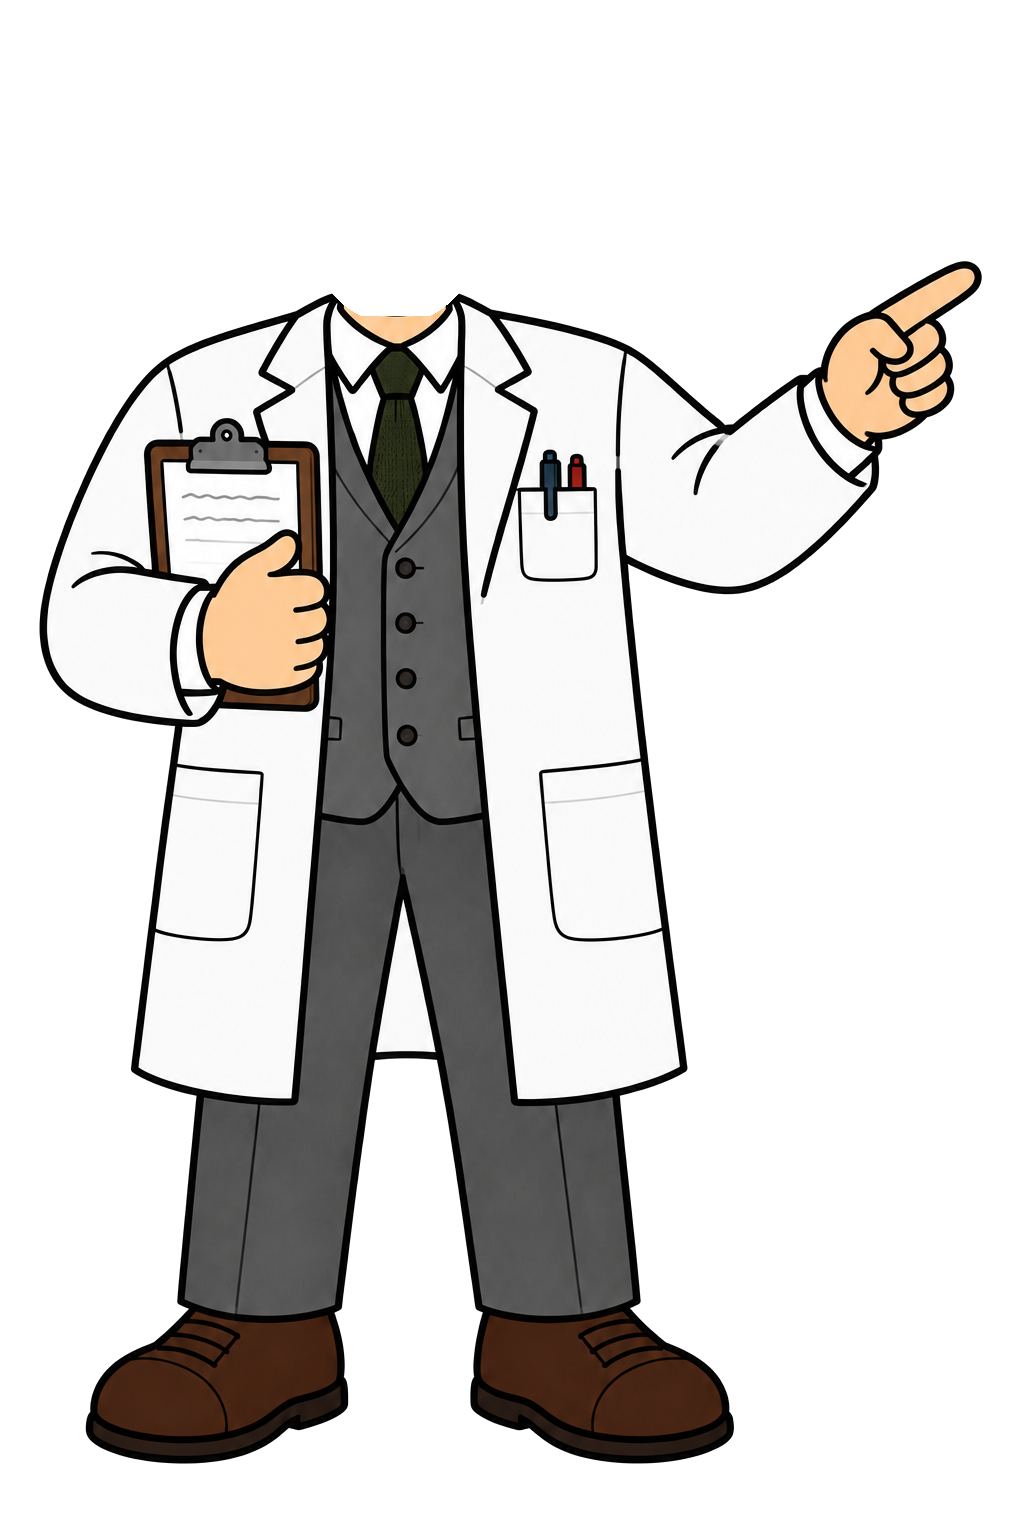
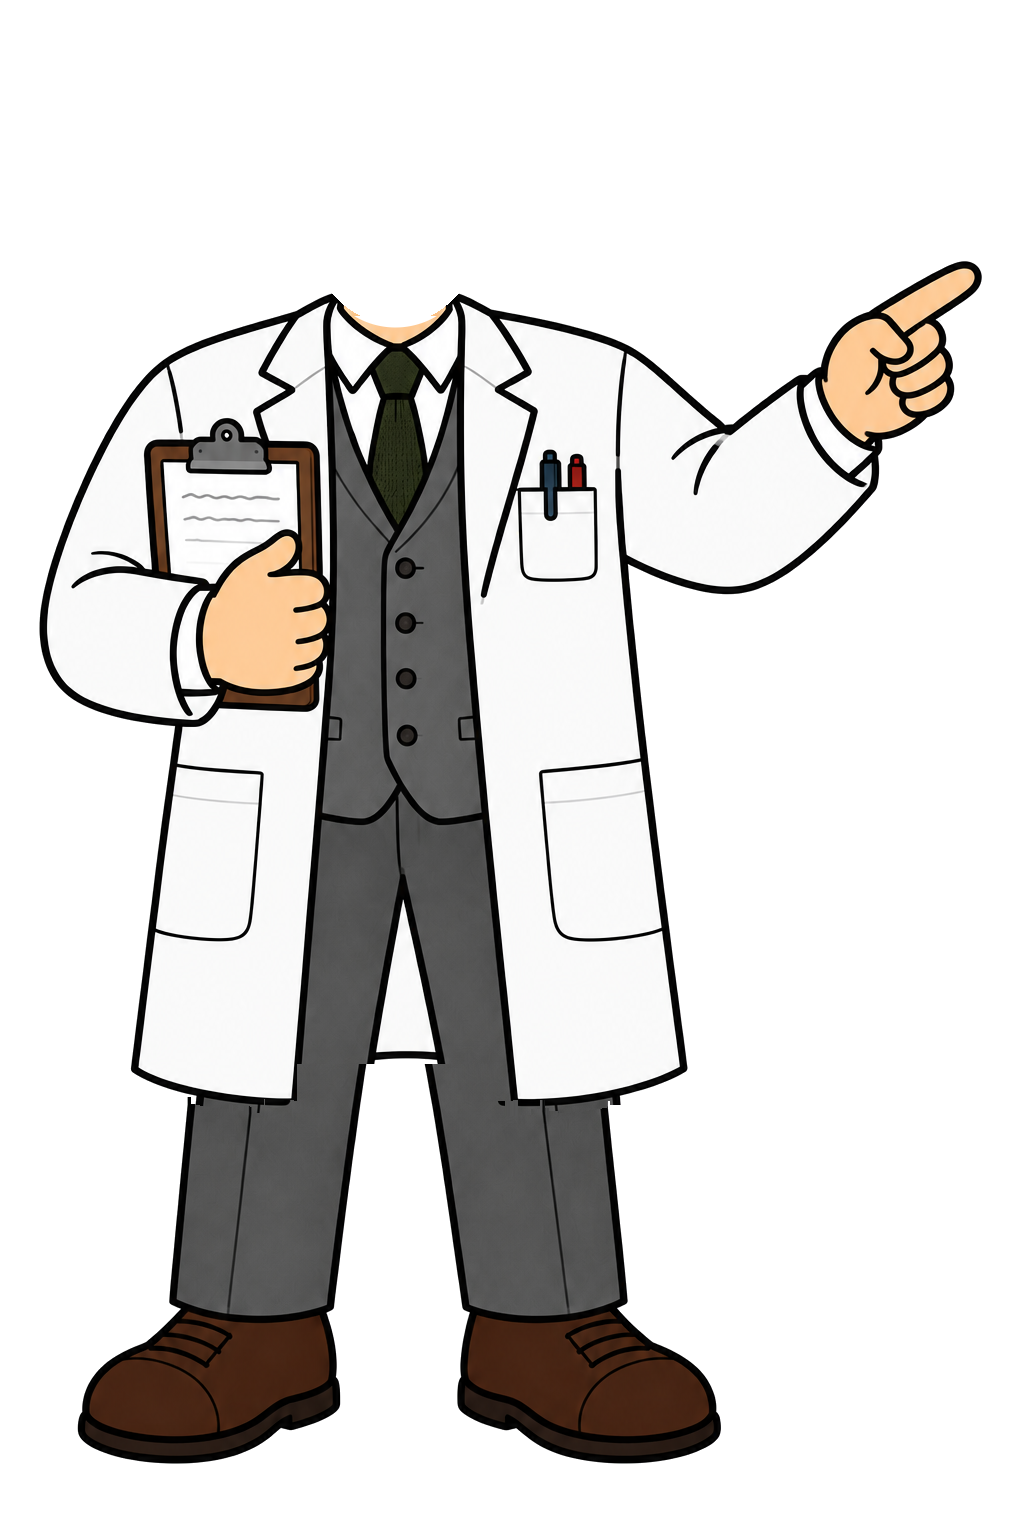
film: scene 9 v10 x12 (1.2x on all: capture-x12.sh/build-x12.sh, 1089 frames = 36.30 s; professor-point drawn as authored with the re-seated legs from film/floating-head 20ae821, local leg shift removed; assets/s09 refreshed to the notched sprites and pinned anchors the v9 render used)

Changed region(s): [[0.4062, 0.6875, 0.7188, 0.9688], [0.0625, 0.6875, 0.375, 0.9688], [0.3438, 0.1875, 0.4062, 0.2188]]

diff --git a/apps/web/film/assets/s09/anchors.js b/apps/web/film/assets/s09/anchors.js
@@ -1,2 +1,2 @@
-window.ANCHORS_S09 = {"street-hands-in-pockets": {"cx": 510.5, "chin": 344, "top": 136, "hx": 510.5}, "street-celebrate": {"cx": 511.0, "chin": 344, "top": 127, "hx": 511.0}, "suit-standing": {"cx": 511.0, "chin": 309, "top": 91, "hx": 511.0}, "suit-point-right": {"cx": 352.0, "chin": 311, "top": 91, "hx": 352.0}, "physicist-holding-clipboard": {"cx": 511.5, "chin": 308, "top": 92, "hx": 511.5}, "physicist-professor-point": {"cx": 394.5, "chin": 308, "top": 91, "hx": 394.5}, "street-thinking": {"cx": 510.5, "chin": 344, "top": 136, "hx": 510.5}, "street-thinking-2": {"cx": 510.5, "chin": 344, "top": 136, "hx": 510.5}, "street-thinking-3": {"cx": 510.5, "chin": 344, "top": 136, "hx": 510.5}};
+window.ANCHORS_S09 = {"street-hands-in-pockets": {"cx": 510.5, "chin": 344, "top": 136, "hx": 510.5}, "street-celebrate": {"cx": 511.0, "chin": 344, "top": 127, "hx": 511.0}, "suit-standing": {"cx": 511.0, "chin": 309, "top": 91, "hx": 511.0}, "suit-point-right": {"cx": 351.0, "chin": 308, "top": 91, "hx": 351.0, "oval_cx": 352.0, "oval_chin": 311}, "physicist-holding-clipboard": {"cx": 509.5, "chin": 308, "top": 92, "hx": 509.5, "oval_cx": 511.5, "oval_chin": 308}, "physicist-professor-point": {"cx": 394.5, "chin": 308, "top": 91, "hx": 394.5}, "street-thinking": {"cx": 510.5, "chin": 344, "top": 136, "hx": 510.5}, "street-thinking-2": {"cx": 510.5, "chin": 344, "top": 136, "hx": 510.5}, "street-thinking-3": {"cx": 510.5, "chin": 344, "top": 136, "hx": 510.5}};
 window.KEY_CHIN_X = 289;

diff --git a/apps/web/film/pipeline/s09/bodies.py b/apps/web/film/pipeline/s09/bodies.py
@@ -9,7 +9,7 @@ is moved by the measured collar offset, so a place() call with the same chin poi
   suit: suit-point-right is pinned to suit-standing (section 2: arms at sides on the snap, points on "yeah").
   lab coat: physicist-holding-clipboard is pinned to physicist-professor-point (section 3 switches on "live"; professor-point keeps its v1-v8 anchor,
   so the section-3 call and the hand-off frame are unchanged).
-  professor-point's legs: the sprite is split at the coat hem and its legs are moved so they land on holding-clipboard's legs (collar-pinned).
+  professor-point's legs: v10 uses the re-seated -notch art from film/floating-head 20ae821 as authored (v9's local hem split is removed).
 usage: /usr/bin/python3 pipeline/s09/bodies.py"""
 import json, os
 import numpy as np
@@ -80,43 +80,7 @@ h = oval(L0); h.update({'oval_cx': h['cx'], 'oval_chin': h['chin'], 'cx': oval(L
 legL, legR = match(L0, L1, (270, 480, 1250, 1470), base), match(L0, L1, (520, 830, 1250, 1470), base)
 print('lab collar offset (professor-point - holding-clipboard, beyond the oval offset):', cdx, cdy, '-> holding-clipboard anchor', h['cx'], h['chin'],
       '| legs left', legL, 'right', legR, '| clipboard', match(L0, L1, (250, 440, 420, 720), base))
-# professor-point's legs: the art draws them (and the coat) 10-17 px right of its collar compared with holding-clipboard. Split at the coat hem: the
-# coat (white panels plus their outline) stays put; everything else from row Y0 down (trousers, the lining between the legs, shoes) is moved left by
-# the leg offset minus the collar offset, the left leg and the right leg each by its own amount, with the seam down the middle of the gap between the
-# legs (lining white, then empty background: nothing to cut). Under the coat the trousers are continued straight up from below the hem, so the moved
-# legs never pull coat white into the opening. In the coat opening the move ramps in from 0 at Y0 to full at the hem row Y1 (a slope change of the
-# trouser lines of a few degrees; rows below about 943 lie under the CALL NOW strip at the section-3 placement, so Y0 = 960 keeps every visible pixel
-# of professor-point, and the hand-off frame, unchanged).
-Y0, Y1 = 960, 1100
-sL, sR = -(legL[0] - cdx), -(legR[0] - cdx)
-P = np.array(Image.open(DST + 'physicist-professor-point.png').convert('RGBA')).astype(int)
-r, g, b, a = P[..., 0], P[..., 1], P[..., 2], P[..., 3]
-white = (r > 215) & (g > 215) & (b > 215) & (a > 200); lab, k = ndi.label(white)
-panels = np.zeros_like(white)
-for i, sl in enumerate(ndi.find_objects(lab), 1):   # the coat's two lower panels: white regions running from above the belt line to below row 1000
-    if sl[0].start < 850 and sl[0].stop > 1000: panels |= lab == i
-panels = ndi.binary_fill_holes(panels)
-lumP = (r + g + b) / 3
-grey = (lumP > 70) & (lumP < 150) & (np.ptp(P[..., :3], axis=-1) < 30) & (a > 200)   # trouser grey (the outline and its anti-aliasing are darker)
-coat = (ndi.binary_dilation(panels, iterations=12) & ~grey) | panels   # the panels plus their whole black outline, not the trousers
-coat[:Y0 - 40] = False
-legs = P.copy(); H = P.shape[0]
-for x in range(P.shape[1]):   # under the coat: continue whatever is below the coat in this column straight up
-    ys = np.nonzero(coat[Y0 - 40:, x])[0] + Y0 - 40
-    if len(ys):
-        yb = ys.max() + 1; legs[ys, x] = P[min(yb, H - 1), x] if yb < H else 0
-gapc = np.nonzero((lumP[1150:1300] > 200).all(0) | (a[1150:1300] < 40).all(0))[0]   # columns clear of both legs below the hem
-mid = int(np.median(gapc[(gapc > 330) & (gapc < 480)]))
-out = P.copy()
-for y in range(Y0, H):
-    w = min(1.0, (y - Y0) / (Y1 - Y0)); dl, dr = sL * w, sR * w
-    xs = np.arange(P.shape[1]); srcL, srcR = xs - dl, xs - dr
-    srcx = np.where(srcL < mid, srcL, srcR)
-    x0 = np.floor(srcx).astype(int); f = (srcx - x0)[:, None]; x0c, x1c = np.clip(x0, 0, P.shape[1] - 1), np.clip(x0 + 1, 0, P.shape[1] - 1)
-    row = legs[y, x0c] * (1 - f) + legs[y, x1c] * f; row[(x0 < 0) | (x0 + 1 >= P.shape[1])] = 0
-    c = coat[y]; row[c] = P[y, c]; out[y] = np.rint(row).astype(int)
-Image.fromarray(out.astype('uint8')).save(DST + 'physicist-professor-point.png', optimize=True)
-print(f'professor-point legs moved: left {sL:+d} px, right {sR:+d} px (seam x {mid}, ramp rows {Y0}-{Y1}); after the move, legs (professor-point - holding-clipboard,',
-      'collar-pinned): left', match(L0, DST + 'physicist-professor-point.png', (270, 480, 1250, 1470), base), 'right', match(L0, DST + 'physicist-professor-point.png', (520, 830, 1250, 1470), base),
-      '(minus the collar offset', cdx, ')')
+# professor-point's legs: v10 uses the re-seated art (film/floating-head 20ae821: the legs sit at the coat hem, collar-pinned to holding-clipboard; rows above
+# 1064 are byte-identical to the v9 -notch art), drawn as authored. The v9 local hem split (left -10, right -15 px) is gone.
+print('professor-point legs (professor-point - holding-clipboard, collar-pinned): left', legL[0] - cdx, 'right', legR[0] - cdx)
 open(DST + 'anchors.js', 'w').write('window.ANCHORS_S09 = ' + json.dumps(anch) + ';\nwindow.KEY_CHIN_X = 289;\n'); print(anch)

diff --git a/docs/presentation/film-plan-s09.md b/docs/presentation/film-plan-s09.md
@@ -153,3 +153,10 @@ Started from a clean e730d87 plus the v8 item: `#tName .nb` is 334 px wide (same
   - What still changes at the lab switch besides the arm: the drawn coat body (lapels, coat outline, pocket) and the clipboard and its hand sit about 7 body px (about 3.6 screen px) right of the collar in professor-point. This is art above the hem, so the hem split does not reach it. Shirt collar, tie, waistcoat buttons and head are on the same pixels.
 - Checks. Stills of the plan list (beat 1 poke and clearance, snap, the switch on "yeah", tag, the frames around the cut, the move, the landing, the switch on "live", the last frame) were looked at. On 2x before/after/overlay crops, the suit switch has collar, tie and head on the same pixels and the legs within about 1 px. The lab switch has head, shirt collar, tie and waistcoat on the same pixels; the coat body and clipboard move by about 4 px (see above). Across the cut (f725 → f726) the figure is identical, and the clipboard stays on image-left through the move. The landing (f738) equals the testimonial placement (f743), by construction. `glitch-scan.py`: 0 flagged (master and phone). Each chunk-start frame (300, 600, 900) was checked against frame 0 (mean abs diff 94–113, so no stale frame-0 paint) and against the previous chunk's last frame (6.8–13.2, in line with the motion on either side). Frames 299/300, 599/600 and 899–901 were looked at. Hand-off: v9's last frame matches v7-x11's except the v8 label width (border at x 359 vs 320). Against `s09-x11.mp4` (v6) it also differs in the label (v6 border at x 585) and in v7's REAL RESULTS text. v9 changes nothing else there. Loudness −16.4 LUFS, −1.9 dBTP. 1188 frames, 39.600 s.
 - Files: `s09-seed.html`, `data/s09-edl.js`, `pipeline/s09/{s09-timing.py,bodies.py,capture-x11.sh,build-x11.sh}`, `assets/bodies/*-notch.png` (4). Output on dev-mac: `~/video-work/solana-bunker/s09/out/s09-v9-x11.mp4` and `s09-v9-x11-phone.mp4`.
+
+## 11. v10 as built (x12; Liam "1.2 on all")
+
+v9's choreography, unchanged, captured and mixed at 1.2x: `capture-x12.sh` (capture.mjs `--speed=1.2` with its per-load warm-up shots) and `build-x12.sh s09-v10-x12` (atempo=1.2 with pitch kept, two-pass loudnorm −16 LUFS, brown-noise bed at the new length; the mix is Liam's take only, and the five SFX markers stay out of the mix). Scene 43.54 s, 1306 frames → **1089 frames = 36.300 s** (ceil(1306/1.2) = 1188 × 1.1/1.2). Beats in x12 frames: suit pokes in 190–193, scratch 444 (TV jolt 445–446), colour snap 448, points on "yeah" 476, stamp 490, lab coat pokes in 616–623, cut 665, rotate and grow 666–676, points on "live" 739, last frame 1088.
+- One body change: `assets/bodies/5-physicist-professor-point-notch.png` is the re-seated art from film/floating-head 20ae821 (legs at the coat hem; rows 0–1063 byte-identical to the v9 art). `bodies.py` no longer shifts the legs locally (v9: −10/−15 px), so the body is drawn as authored. In the processed sprite, rows 0–959 are pixel-identical to v9's; the head anchor (394.5, 308) and holding-clipboard's pinned anchor (509.5, 308) are unchanged. As authored, the legs sit +2 px (body) from holding-clipboard's, collar-pinned. At the testimonial placement those rows are under the CALL NOW strip.
+- Checks: glitch-scan v2 clean on master and phone with chunk starts 300/600/900 and frame 0 as reference. Reviewed designed frames are ignored: 494 (stamp shake), and 445–446 (the record-scratch TV jolt, flagged on the phone cut only). The closest frame to frame 0 is frame 3. Stills looked at: the poke-in, the snap (one suit, arms at sides), "yeah", the lab coat poke, the cut, the move, "live" and the last frame. The last frame matches v9-x11's (44.3 dB). Loudness −16.4 LUFS, −1.9 dBTP.
+- Output on dev-mac: `~/video-work/solana-bunker/s09/out/s09-v10-x12.mp4` and `s09-v10-x12-phone.mp4`.
